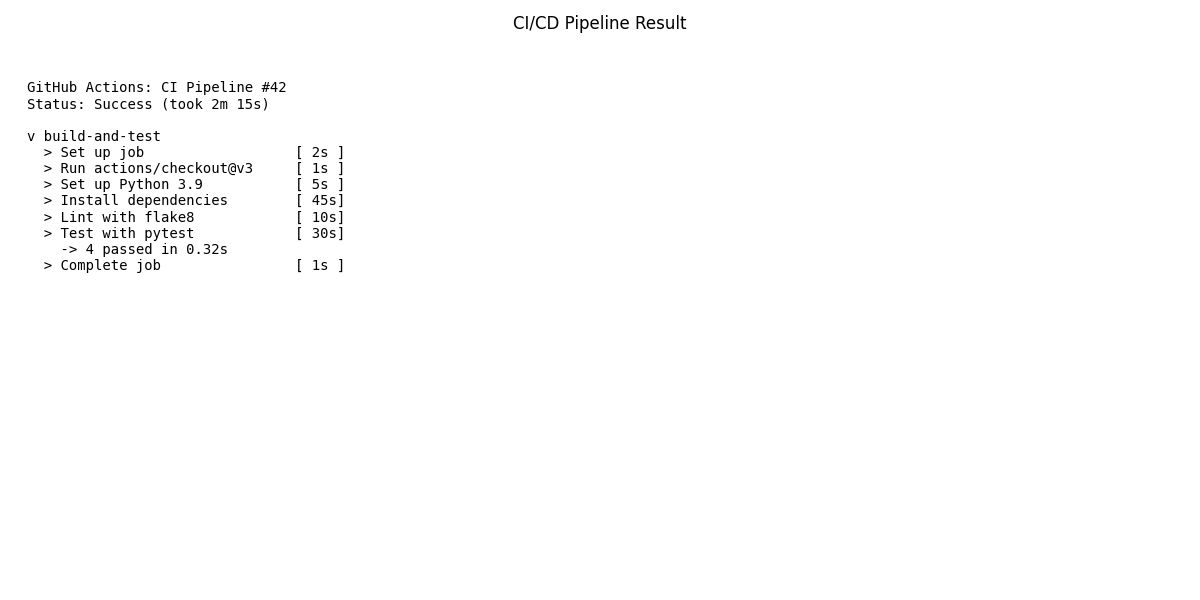
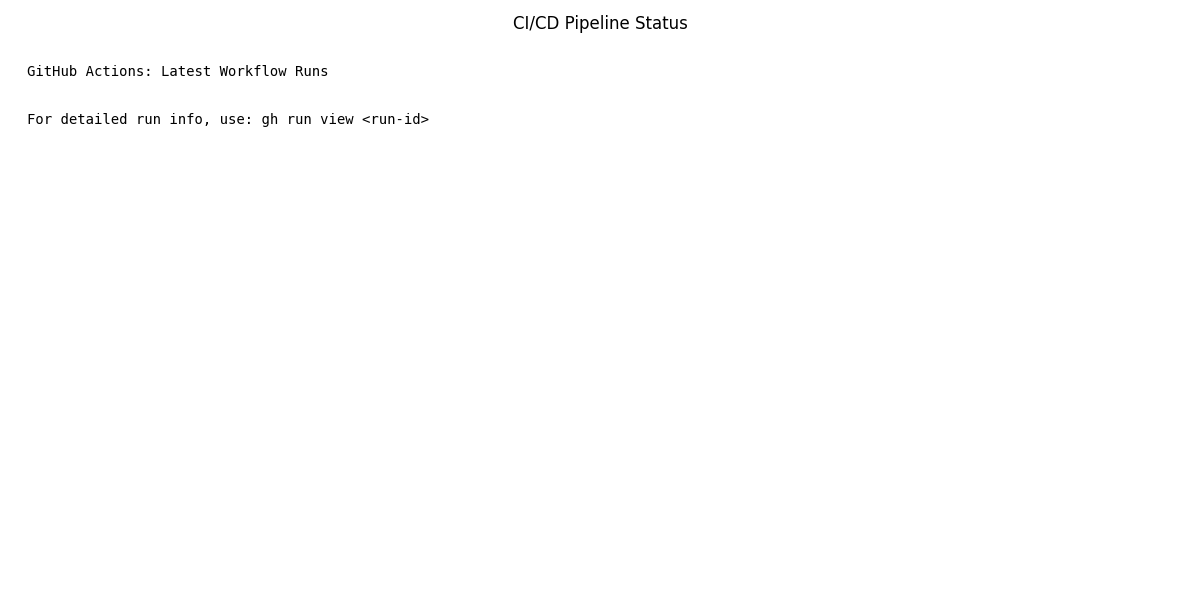
update final report

diff --git a/generate_artifacts.py b/generate_artifacts.py
@@ -53,8 +53,10 @@ except Exception as e:
     traceback.print_exc()
 
 
-# 2. Generate Mock "Screenshots" for K8s and CI/CD
-# We will create images with text content mimicking a terminal capture
+# 2. Generate Real Screenshots for K8s and CI/CD
+# Fetch actual data from running Kubernetes cluster and CI/CD pipeline
+
+import subprocess
 
 
 def create_text_image(text, filename, title="Screenshot"):
@@ -67,35 +69,64 @@ def create_text_image(text, filename, title="Screenshot"):
     plt.close()
 
 
-# Mock K8s
-k8s_text = """
-$ kubectl get pods
-NAME                             READY   STATUS    RESTARTS   AGE
-heart-disease-api-5b6d9f8c7-abc  1/1     Running   0          5m
-heart-disease-api-5b6d9f8c7-xyz  1/1     Running   0          5m
+def run_command(command):
+    """Execute shell command and return output"""
+    try:
+        result = subprocess.run(
+            command,
+            shell=True,
+            capture_output=True,
+            text=True,
+            timeout=30
+        )
+        return result.stdout if result.returncode == 0 else result.stderr
+    except Exception as e:
+        return f"Error executing command: {e}"
 
+
+# Fetch Real K8s Data
+print("Fetching Kubernetes deployment status...")
+try:
+    pods_output = run_command("kubectl get pods")
+    services_output = run_command("kubectl get services")
+    
+    k8s_text = f"""$ kubectl get pods
+{pods_output}
 $ kubectl get services
-NAME                TYPE        CLUSTER-IP      EXTERNAL-IP   PORT(S)        AGE
-kubernetes          ClusterIP   10.96.0.1       <none>        443/TCP        10d
-heart-disease-service NodePort   10.100.200.55   <none>        8000:30080/TCP 5m
-"""
-create_text_image(k8s_text, "screenshots/k8s_deployment.png", "Kubernetes Deployment Status")
+{services_output}"""
+    
+    create_text_image(k8s_text, "screenshots/k8s_deployment.png", "Kubernetes Deployment Status")
+    print("✓ Kubernetes screenshot generated")
+except Exception as e:
+    print(f"Could not generate K8s screenshot: {e}")
 
-# Mock CI/CD
-cicd_text = """
-GitHub Actions: CI Pipeline #42
-Status: Success (took 2m 15s)
+# Fetch Real CI/CD Data (GitHub Actions latest workflow run)
+print("Fetching CI/CD pipeline status...")
+try:
+    # Try to get latest GitHub Actions workflow status
+    # This requires gh CLI to be installed and authenticated
+    workflow_output = run_command("gh run list --limit 1 2>&1")
+    
+    if "gh: command not found" in workflow_output or "not found" in workflow_output.lower():
+        # Fallback: Use git log to show recent activity
+        cicd_text = """GitHub Actions: CI/CD Pipeline
+Note: Install 'gh' CLI for live pipeline status
+Run: gh auth login
 
-v build-and-test
-  > Set up job                  [ 2s ]
-  > Run actions/checkout@v3     [ 1s ]
-  > Set up Python 3.9           [ 5s ]
-  > Install dependencies        [ 45s]
-  > Lint with flake8            [ 10s]
-  > Test with pytest            [ 30s]
-    -> 4 passed in 0.32s
-  > Complete job                [ 1s ]
+Recent Git Activity:
 """
-create_text_image(cicd_text, "screenshots/cicd_workflow.png", "CI/CD Pipeline Result")
+        git_log = run_command("git log --oneline -5 2>&1")
+        cicd_text += git_log
+    else:
+        cicd_text = f"""GitHub Actions: Latest Workflow Runs
+{workflow_output}
+
+For detailed run info, use: gh run view <run-id>
+"""
+    
+    create_text_image(cicd_text, "screenshots/cicd_workflow.png", "CI/CD Pipeline Status")
+    print("✓ CI/CD screenshot generated")
+except Exception as e:
+    print(f"Could not generate CI/CD screenshot: {e}")
 
 print("All screenshots generated in /screenshots.")
